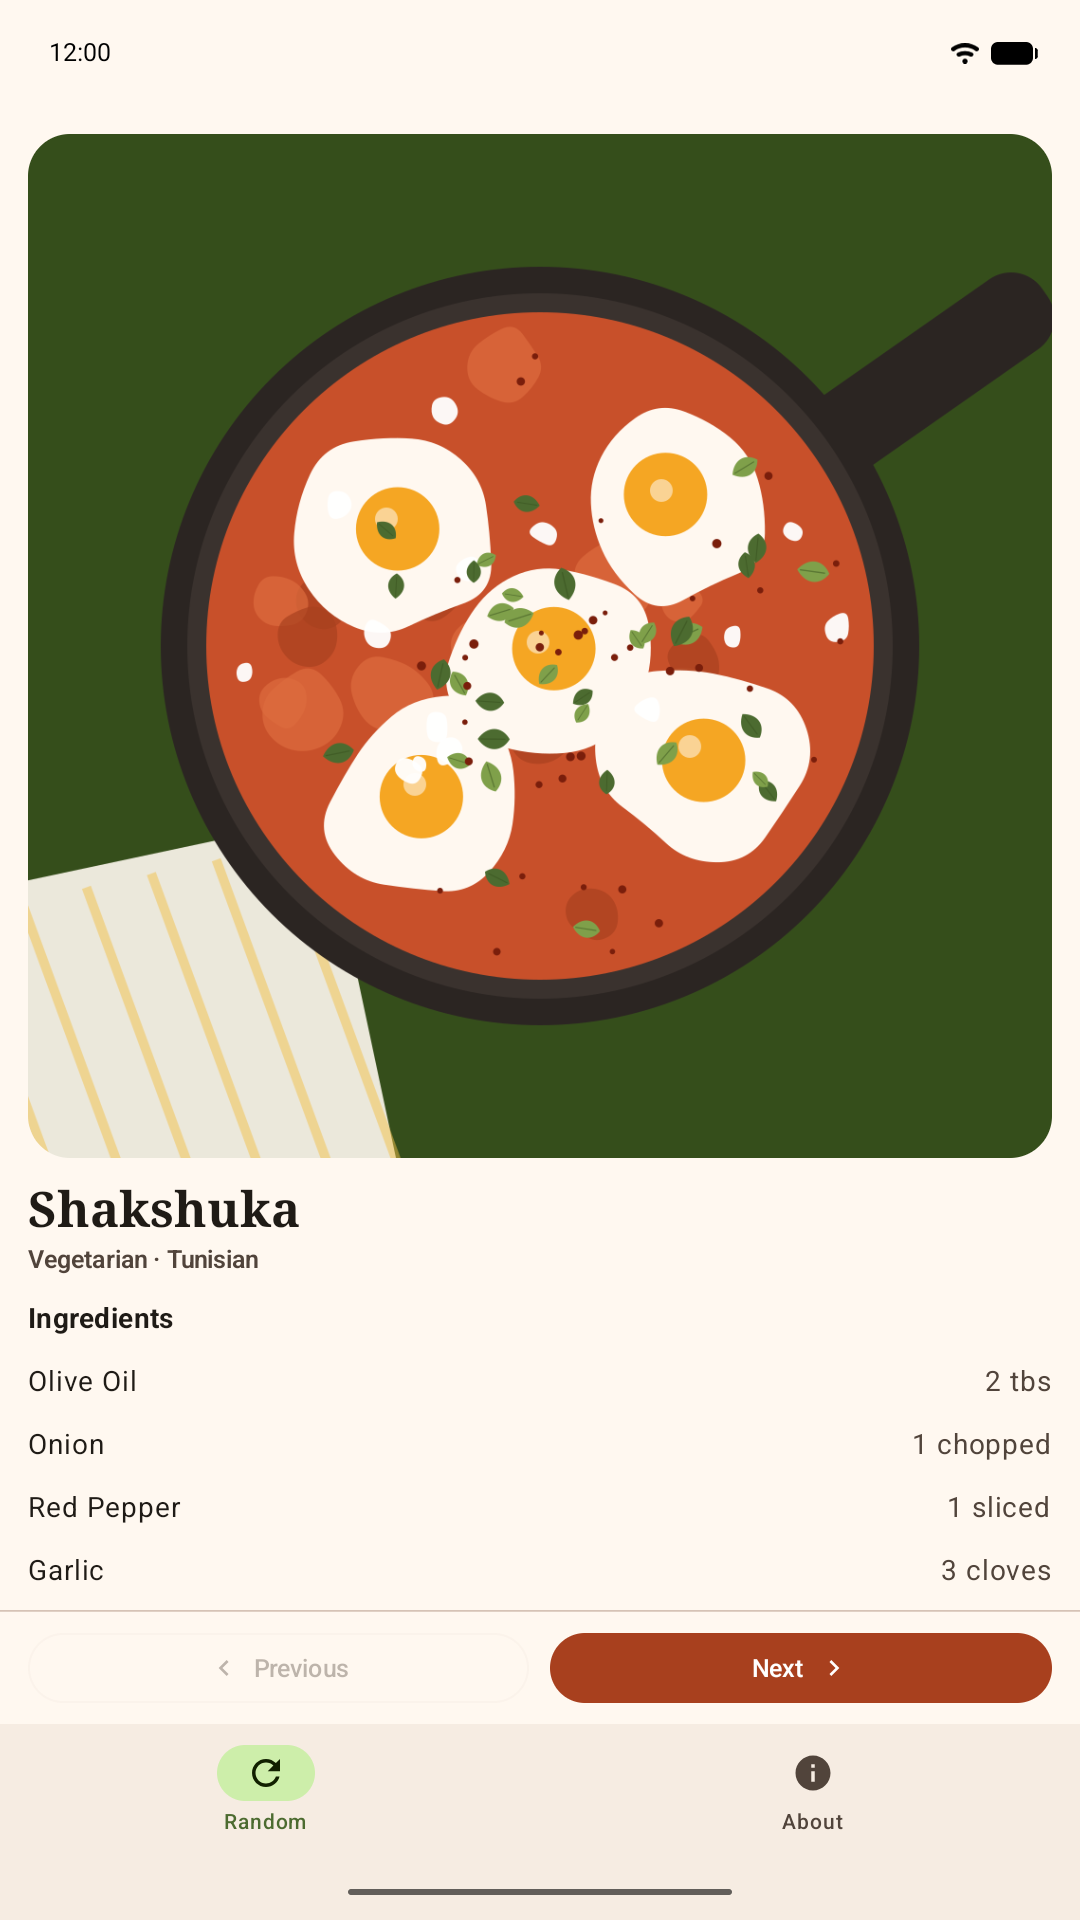
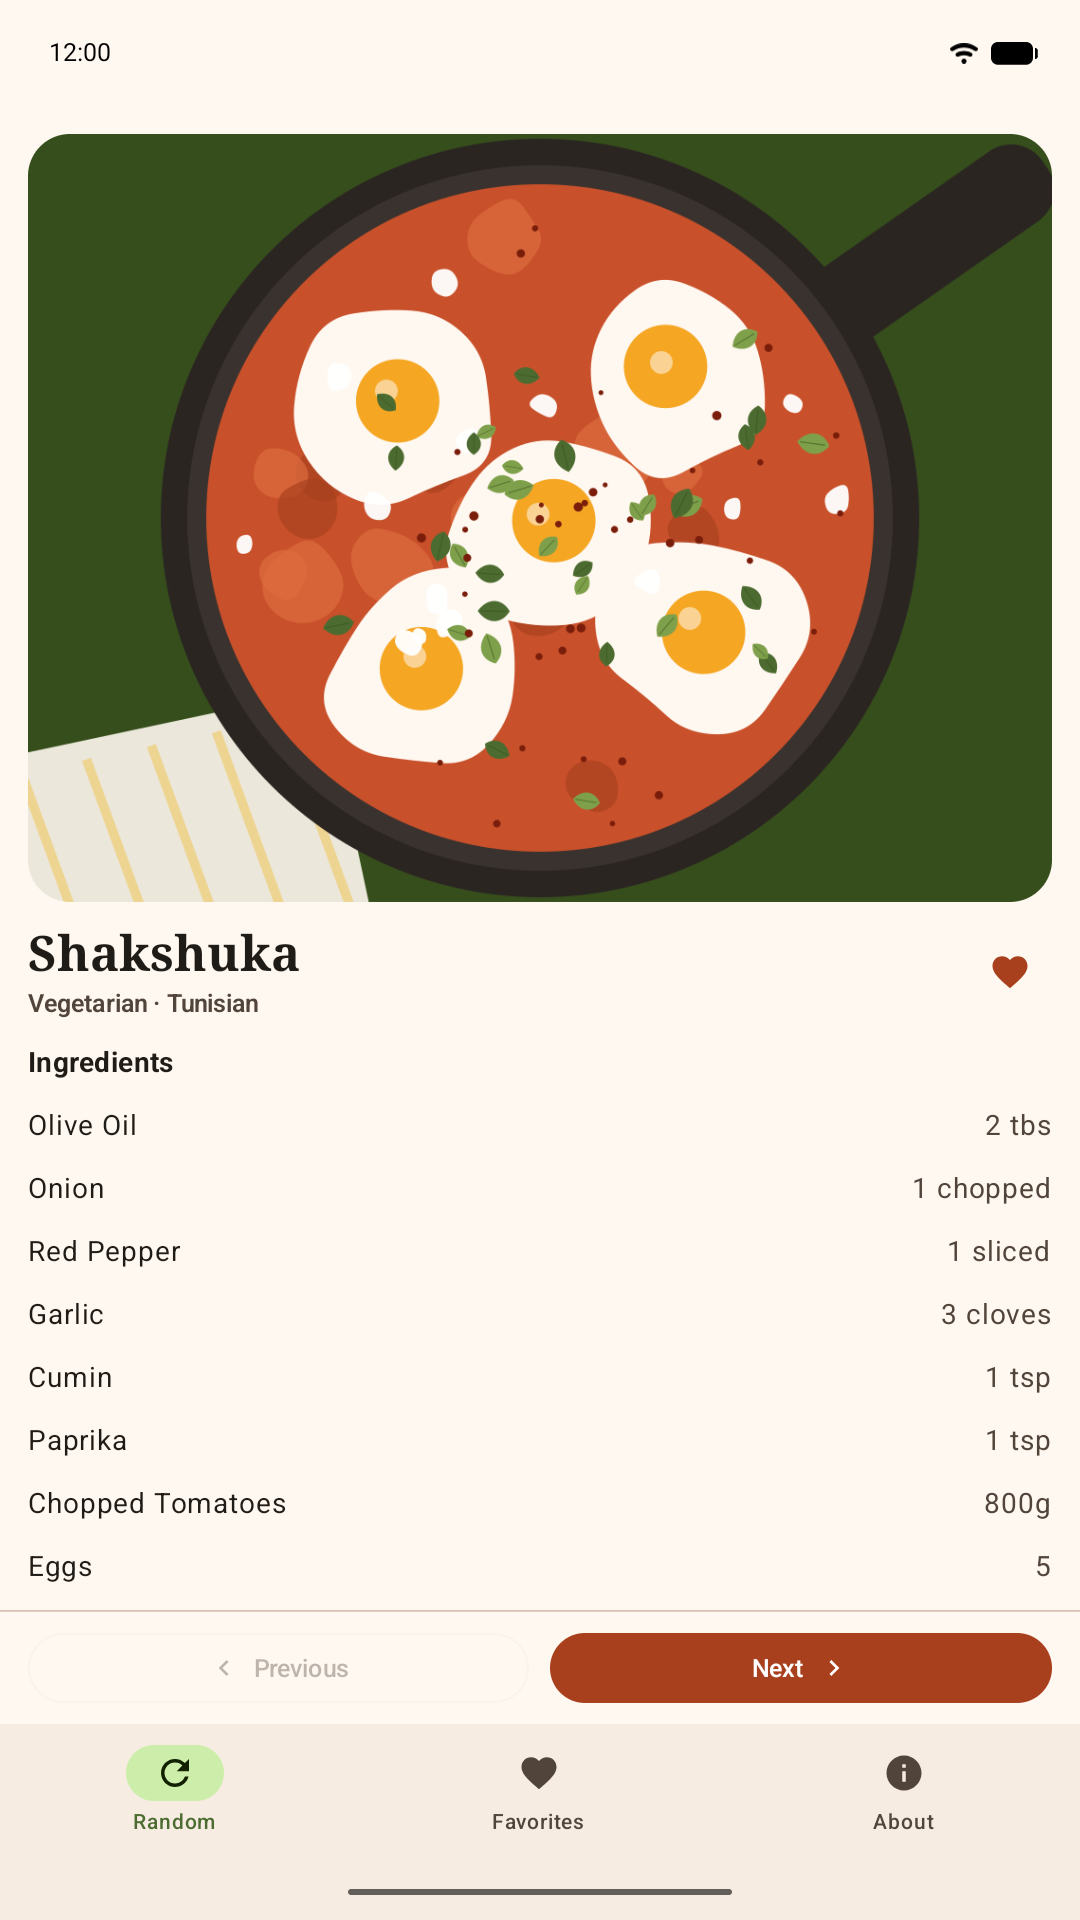
Retake the 7- and 10-inch store screenshots with the tablet layout
Both are medium width, so they show the centered column with the 4:3
image, and the bottom bar now has the Favorites tab. CLAUDE.md notes how
to clear duplicate status bar icons and the screen lock notification.

diff --git a/CLAUDE.md b/CLAUDE.md
@@ -104,7 +104,7 @@ The Google Play listing lives in `fastlane/metadata/android/en-US/` (Fastlane's 
 
 - `art/play-store/render_store_graphics.py` renders the icon (the launcher icon's motif from `render_icons.py`) and the feature graphic. Its text uses Noto Serif from `art/fonts/` (OFL, `art/fonts/OFL.txt`; only used for artwork, not shipped), the serif the app's headlines use on Android.
 - Screenshots never show TheMealDB's photos: they come from contributors, none is marked Creative Commons, and many seem to come from the recipes' source sites, so their use in a store listing is unclear. They show the debug build's **screenshot mode** instead: two recipes written for the screenshots (`androidApp/src/debug/.../ScreenshotRecipes.kt`) with illustrations drawn by `art/play-store/render_mock_recipes.py` (`art/play-store/mock-recipes/`). `debugModules()` (`src/debug/.../DebugModules.kt`; the `src/release` version returns nothing) replaces the `RecipeRepository` and the `FavoritesRepository` (in memory, pre-filled with the same two recipes, so the favorites tab can be photographed and the real database isn't touched) when the app's files contain a `screenshot-mode` directory with the images. `initKoin()` runs the platform `config` after loading the app's modules, so that override wins. Set it up with `adb shell run-as io.github.fmweigl.yetanothermealsapp mkdir -p files/screenshot-mode` and `adb exec-in run-as io.github.fmweigl.yetanothermealsapp sh -c 'cat > files/screenshot-mode/<name>.png' < art/play-store/mock-recipes/<name>.png`, and remove the directory afterwards.
-- Screenshots come from the Android emulator via `adb exec-out screencap` (never from the desktop): `adb shell wm size 1080x1920` for Play's aspect ratio, System UI demo mode for a clean status bar (12:00, full battery, no notification icons), `cmd uimode night yes|no` for light and dark. The current set: 1 shakshuka (light), 2 its ingredients (light), 3 spaghetti (dark), 4 the favorites tab with both recipes (light), 5 privacy policy (dark). Tablet screenshots come from the same phone emulator, resized: 7-inch `wm size 1080x1920` + `wm density 280`, 10-inch `wm size 1440x2560` + `wm density 320`, both portrait (both are medium width, so they show the centered single column; landscape would show the two-pane layout); the current set is shakshuka (light) for each. Each `wm size` change can make demo mode stack duplicate Wi-Fi/signal icons that only a SystemUI restart clears (no root on this image): check the status bar and, if needed, fix it in the PNG. Restore the emulator's size, density, theme and demo mode afterwards.
+- Screenshots come from the Android emulator via `adb exec-out screencap` (never from the desktop): `adb shell wm size 1080x1920` for Play's aspect ratio, System UI demo mode for a clean status bar (12:00, full battery, no notification icons), `cmd uimode night yes|no` for light and dark. The current set: 1 shakshuka (light), 2 its ingredients (light), 3 spaghetti (dark), 4 the favorites tab with both recipes (light), 5 privacy policy (dark). Tablet screenshots come from the same phone emulator, resized: 7-inch `wm size 1080x1920` + `wm density 280`, 10-inch `wm size 1440x2560` + `wm density 320`, both portrait (both are medium width, so they show the centered single column; landscape would show the two-pane layout); the current set is shakshuka (light) for each. Each `wm size` change can make demo mode stack duplicate Wi-Fi/signal icons: leaving and re-entering demo mode (`exit`, then `enter` and the status commands again, with `-e fully true` on Wi-Fi so it has no "!") clears them; the system's "Set a screen lock" notification shows a shield next to the clock until it's cleared from the shade. Check the status bar and, if needed, fix it in the PNG. Restore the emulator's size, density, theme and demo mode afterwards.
 
 ## Data source
 
